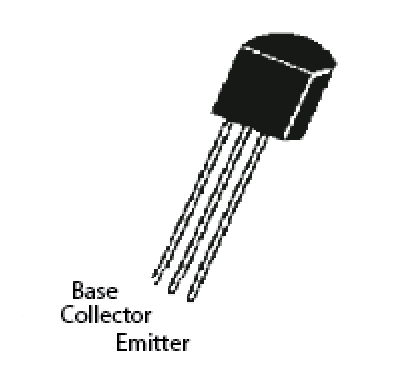
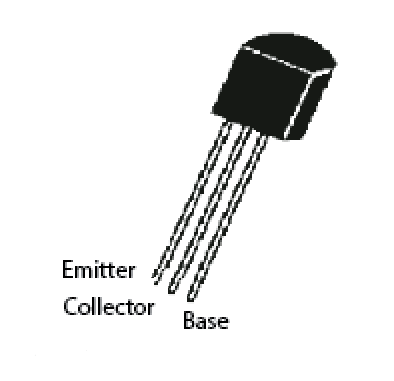
Correct transistor legs

Changed region(s): [[0.1523, 0.664, 0.5787, 0.9239]]

diff --git a/worksheet.md b/worksheet.md
@@ -112,7 +112,7 @@ The Base controls the transistor and if it receives a signal (a small voltage) i
 
 ** Please note: some models of transistors have the legs in a different order. If you are not using BC635 transistors then you must look at the datasheet to check they are correct. Wiring up incorrectly could mean you'll damage your Pi, the transistor or pop your balloon too early!**
 
-Hold the BC635 transistor with the flat side facing towards you and from left to right the leads are called the Base, Collector and the Emitter.
+Hold the BC635 transistor with the flat side facing towards you and from left to right the leads are called the Emitter, the Collector and Base.
 
 
 ![](images/transistor.png)
@@ -125,7 +125,7 @@ Hold the BC635 transistor with the flat side facing towards you and from left to
 
     Be sure to place one leg in each hole in the same row.
 
-1. Now connect the end leg of the transistor to the ground rail and the middle leg to GPIO pin 2 on the Raspberry Pi:
+1. Now connect the top leg of the transistor to the ground rail and the bottom leg to GPIO pin 2 on the Raspberry Pi:
 
     ![](images/connect-transistor.png)
 
